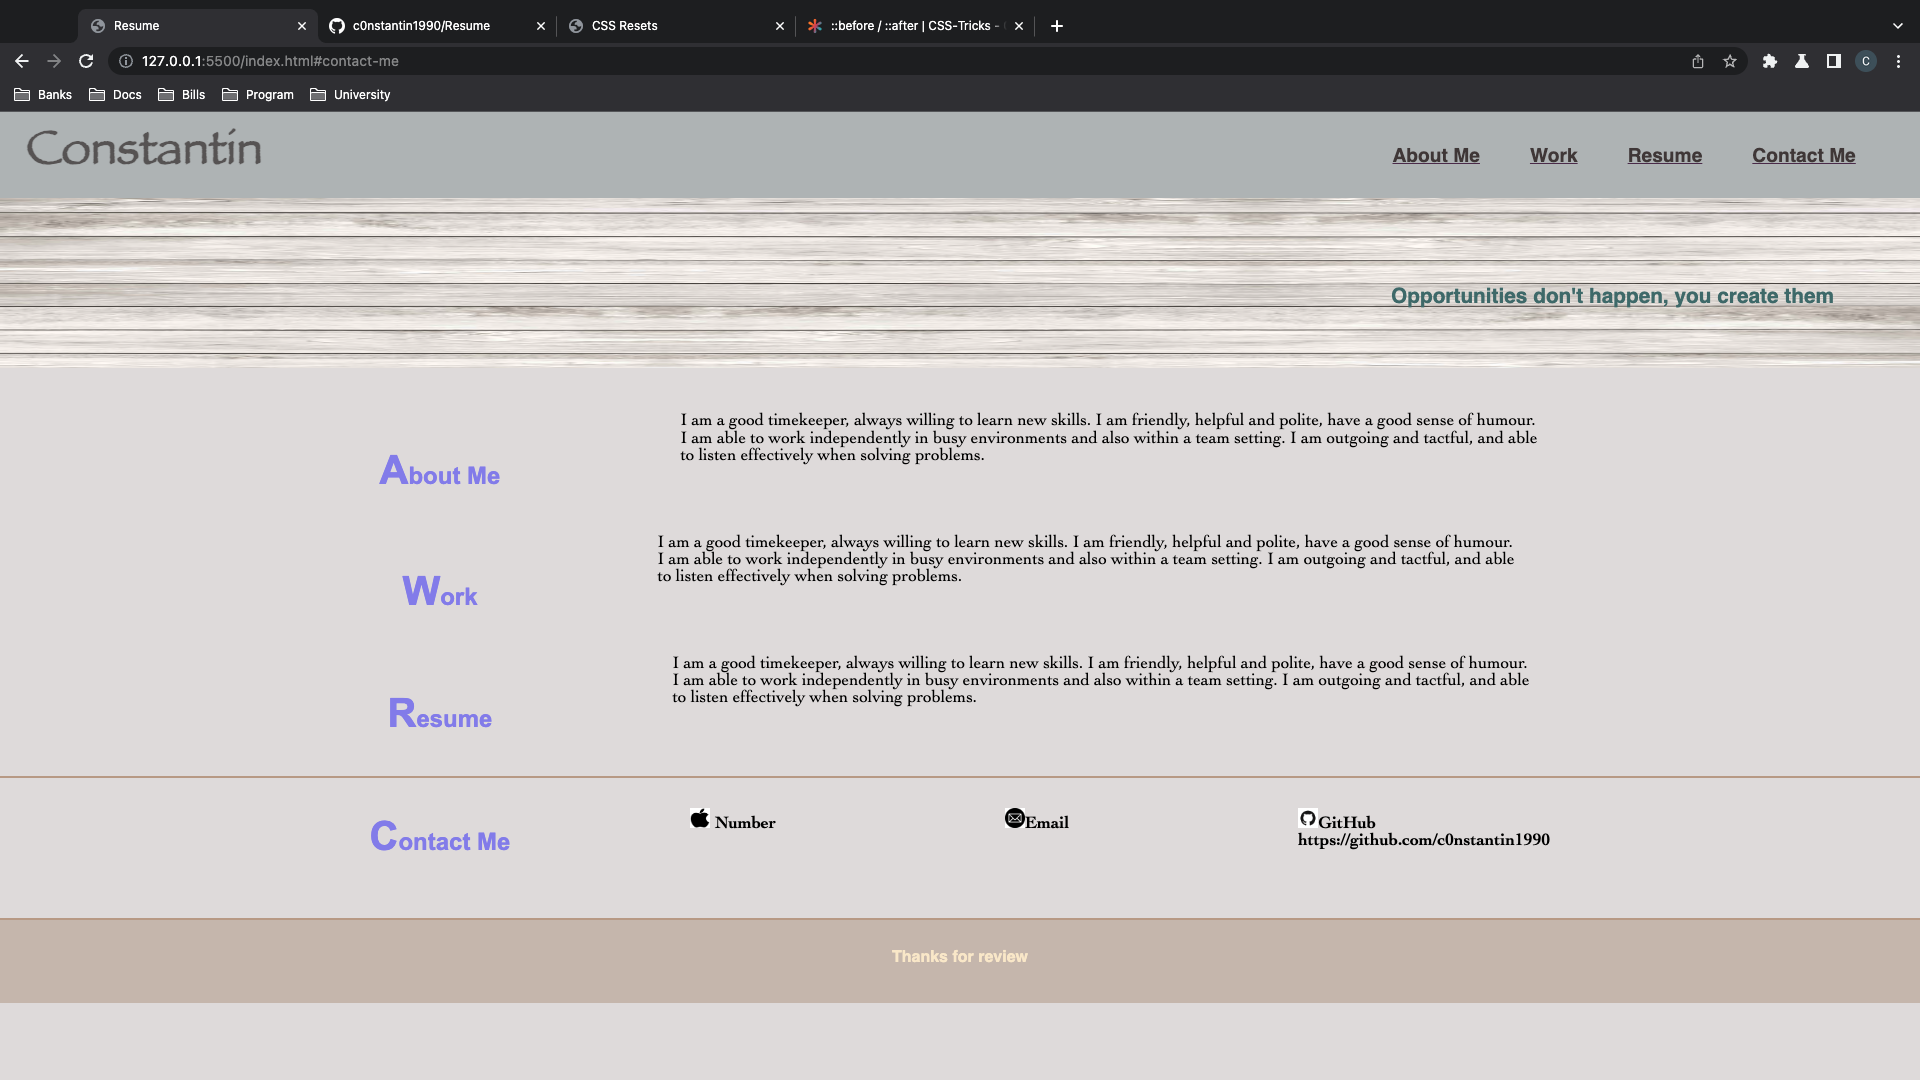
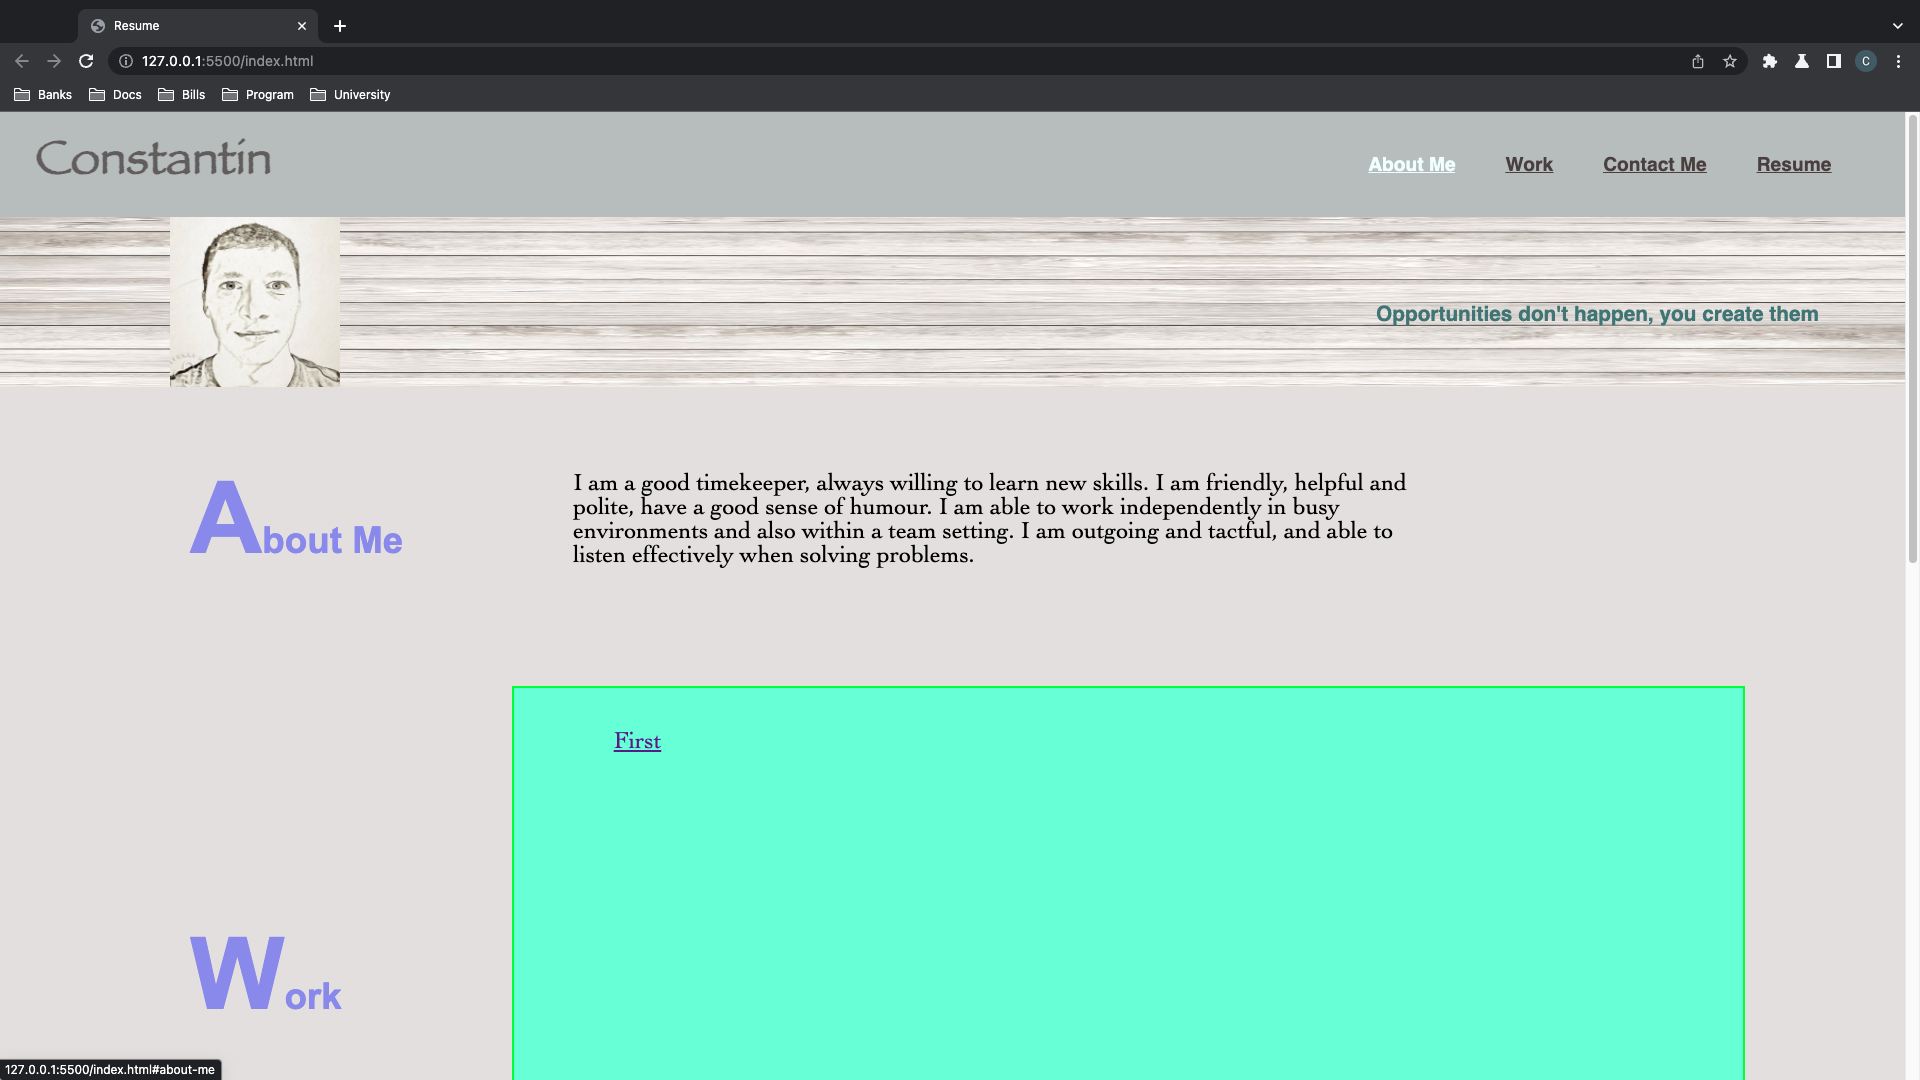
made cosmetic changes in css & changed screenshots

diff --git a/assets/css/style.css b/assets/css/style.css
@@ -10,7 +10,7 @@ body {
 header {
   display: flex;
   align-items: center;
-  padding: 1%;
+  padding: 1.5%;
   background-color: rgb(183, 188, 188);
   justify-content: space-between;
 }
@@ -22,32 +22,19 @@ h1 {
   padding-left: 7px;
 }
 
-ul li {
-  color: rgb(83, 48, 84);
-  text-decoration: underline;
-  padding-right: 40px;
-}
-h2 {
-  font-family: Arial, Helvetica, sans-serif;
-  color: rgb(137, 137, 239);
-  font-size: 150%;
-  margin: 2% 0;
-}
-h2::first-letter {
-  font-weight: var(--bold-font);
-  font-size: 40px;
-}
 nav ul {
   display: flex;
   justify-content: space-between;
   min-width: 300px;
 }
-
+ul li {
+  color: rgb(83, 48, 84);
+  text-decoration: underline;
+  padding-right: 40px;
+}
 nav a {
-  background-color: unset;
   color: rgb(72, 63, 63);
   font-weight: var(--bold-font);
-  text-decoration: none;
   font-size: 120%;
   padding: 5px;
 }
@@ -80,53 +67,60 @@ main img {
   bottom: 3px;
   left: 100px;
 }
+h2 {
+  font-family: Arial, Helvetica, sans-serif;
+  color: rgb(137, 137, 239);
+  font-size: 230%;
+  margin: 2% 0;
+  padding-left: 190px;
+}
+
+h2::first-letter {
+  font-weight: var(--bold-font);
+  font-size: 100px;
+}
+.work-padding {
+  padding-top: 200px;
+}
+
 section {
   background-color: rgb(226, 223, 223);
   display: flex;
-  justify-content: center;
-  gap: 80px;
+  justify-content: flex-start;
+  gap: 70px;
 }
+
 p {
   font-family: Cambria, Cochin, Georgia, Times, "Times New Roman", serif;
-  font-size: 107%;
+  font-size: 150%;
   width: 50%;
   padding-left: 100px;
-  padding-bottom: 70px;
+  padding-bottom: 120px;
+  padding-top: 40px;
 }
-.contact {
-  padding-top: 30px;
-  display: flex;
-  justify-content: space-between;
-}
-.contact a {
-  font-weight: var(--bold-font);
-}
-.bottom-line {
-  border-bottom: 2px solid #c0a28e;
-}
-span {
-  display: none;
-}
-.contact a:hover span {
-  display: block;
-}
+
 .container {
+  width: 70%;
+  height: 120vh;
   display: flex;
   flex-direction: column;
-  border: 1px solid;
+  padding-left: 100px;
 }
 .block1 {
   display: flex;
+  flex-basis: 100%;
   flex-direction: row;
   gap: 1px;
 }
 .block2 {
   display: flex;
+  flex-basis: 50%;
   flex-direction: row;
   gap: 1px;
 }
 .block3 {
   display: flex;
+  flex-basis: 50%;
   flex-direction: row;
   gap: 1px;
 }
@@ -135,6 +129,7 @@ span {
   border: 1px solid;
   flex-basis: 100%;
   background-color: aquamarine;
+  border: 2px solid rgb(9, 255, 0);
 }
 #box2,
 #box3 {
@@ -142,6 +137,7 @@ span {
   flex-basis: 50%;
   border: 1px solid;
   background-color: bisque;
+  border: 2px solid rgb(9, 255, 0);
 }
 #box4,
 #box5 {
@@ -149,8 +145,28 @@ span {
   flex-basis: 50%;
   border: 1px solid;
   background-color: blue;
+  border: 2px solid rgb(9, 255, 0);
+}
+.contact {
+  display: flex;
+  justify-content: space-between;
+  width: 65%;
+}
+.contact a {
+  font-weight: var(--bold-font);
+  padding-top: 60px;
 }
 
+.contact img {
+  width: 20px;
+  height: 20px;
+}
+.contact a:hover span {
+  display: block;
+}
+span {
+  display: none;
+}
 footer {
   display: flex;
   background-color: #ccbeb4;
@@ -161,13 +177,10 @@ footer {
 h3 {
   color: rgb(251, 233, 205);
 }
-.contact img {
-  width: 20px;
-  height: 20px;
-}
 
 @media screen and (max-width: 768px) {
-  header {
+  header,
+  section {
     flex-direction: column;
   }
 }

diff --git a/index.html b/index.html
@@ -31,6 +31,7 @@
     </main>
     <section>
       <h2 id="about-me">About Me</h2>
+
       <p>
         I am a good timekeeper, always willing to learn new skills. I am
         friendly, helpful and polite, have a good sense of humour. I am able to
@@ -40,16 +41,18 @@
       </p>
     </section>
     <section>
-      <h2 id="work">Work</h2>
+      <h2 class="work-padding" id="work">Work</h2>
       <div class="container">
-        <section clas="block1">
-          <p id="box1">First</p>
+        <section class="block1">
+          <p id="box1">
+            <a href="https://c0nstantin1990.github.io/Horiseon/">First</a>
+          </p>
         </section>
-        <section clas="block2">
+        <section class="block2">
           <p id="box2">Second</p>
           <p id="box3">Third</p>
         </section>
-        <section clas="block3">
+        <section class="block3">
           <p id="box4">Fourth</p>
           <p id="box5">Fifth</p>
         </section>

diff --git a/README.md b/README.md
@@ -21,4 +21,7 @@ Website Link: https://c0nstantin1990.github.io/Resume/
 ## Credits
 
 Used pictures from google.com
+Used text from google
+
 https://www.geeksforgeeks.org/how-to-create-three-boxes-in-the-same-div-using-html-and-css/
+W3Schools
